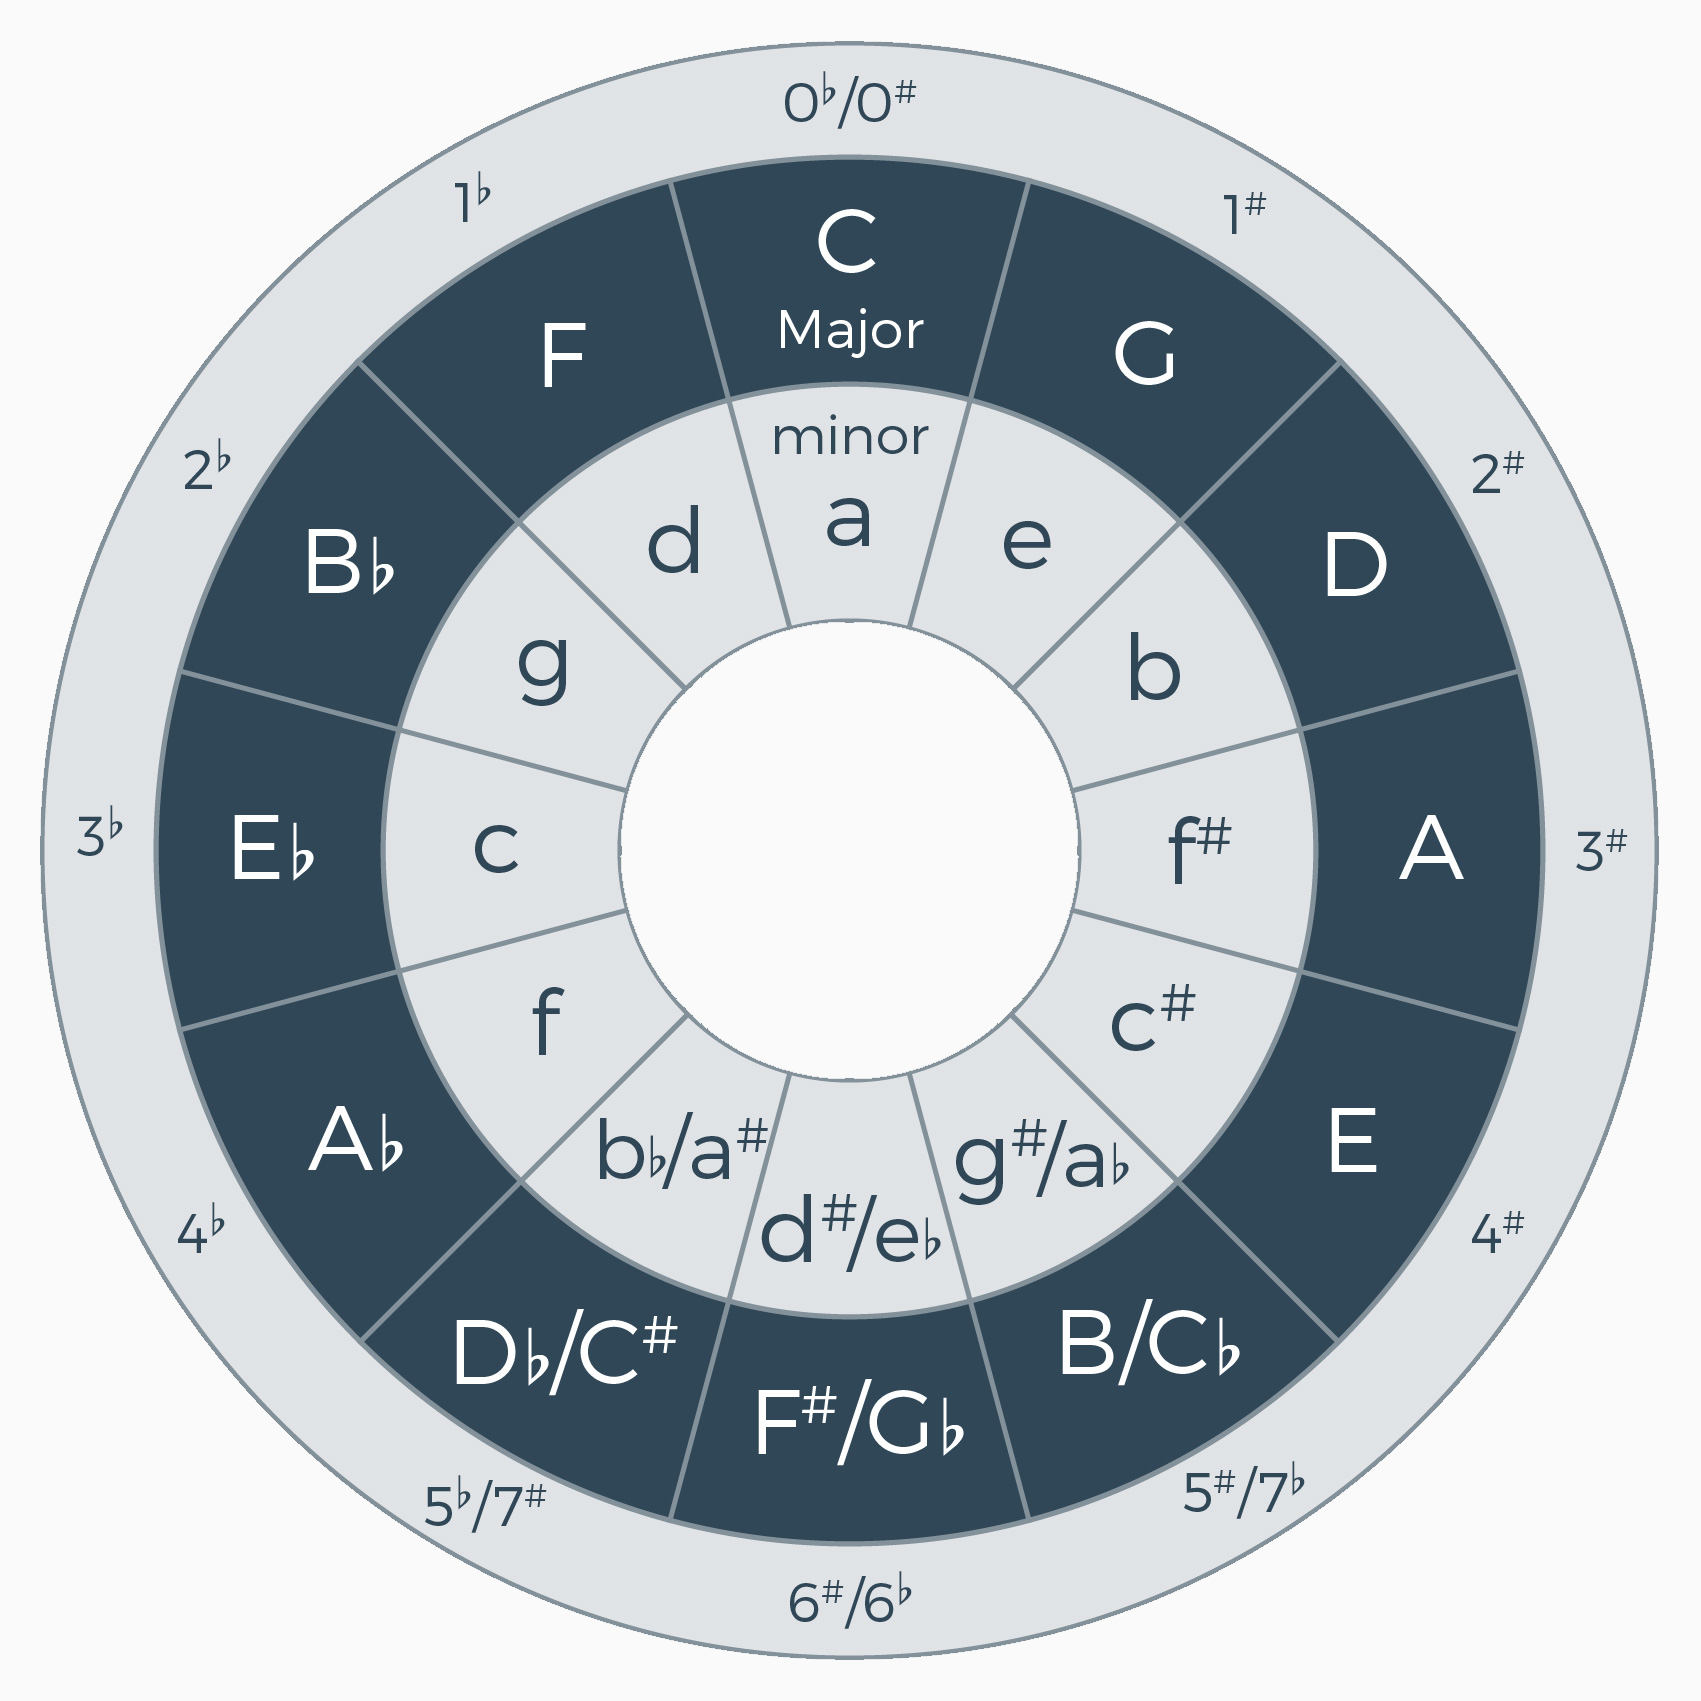
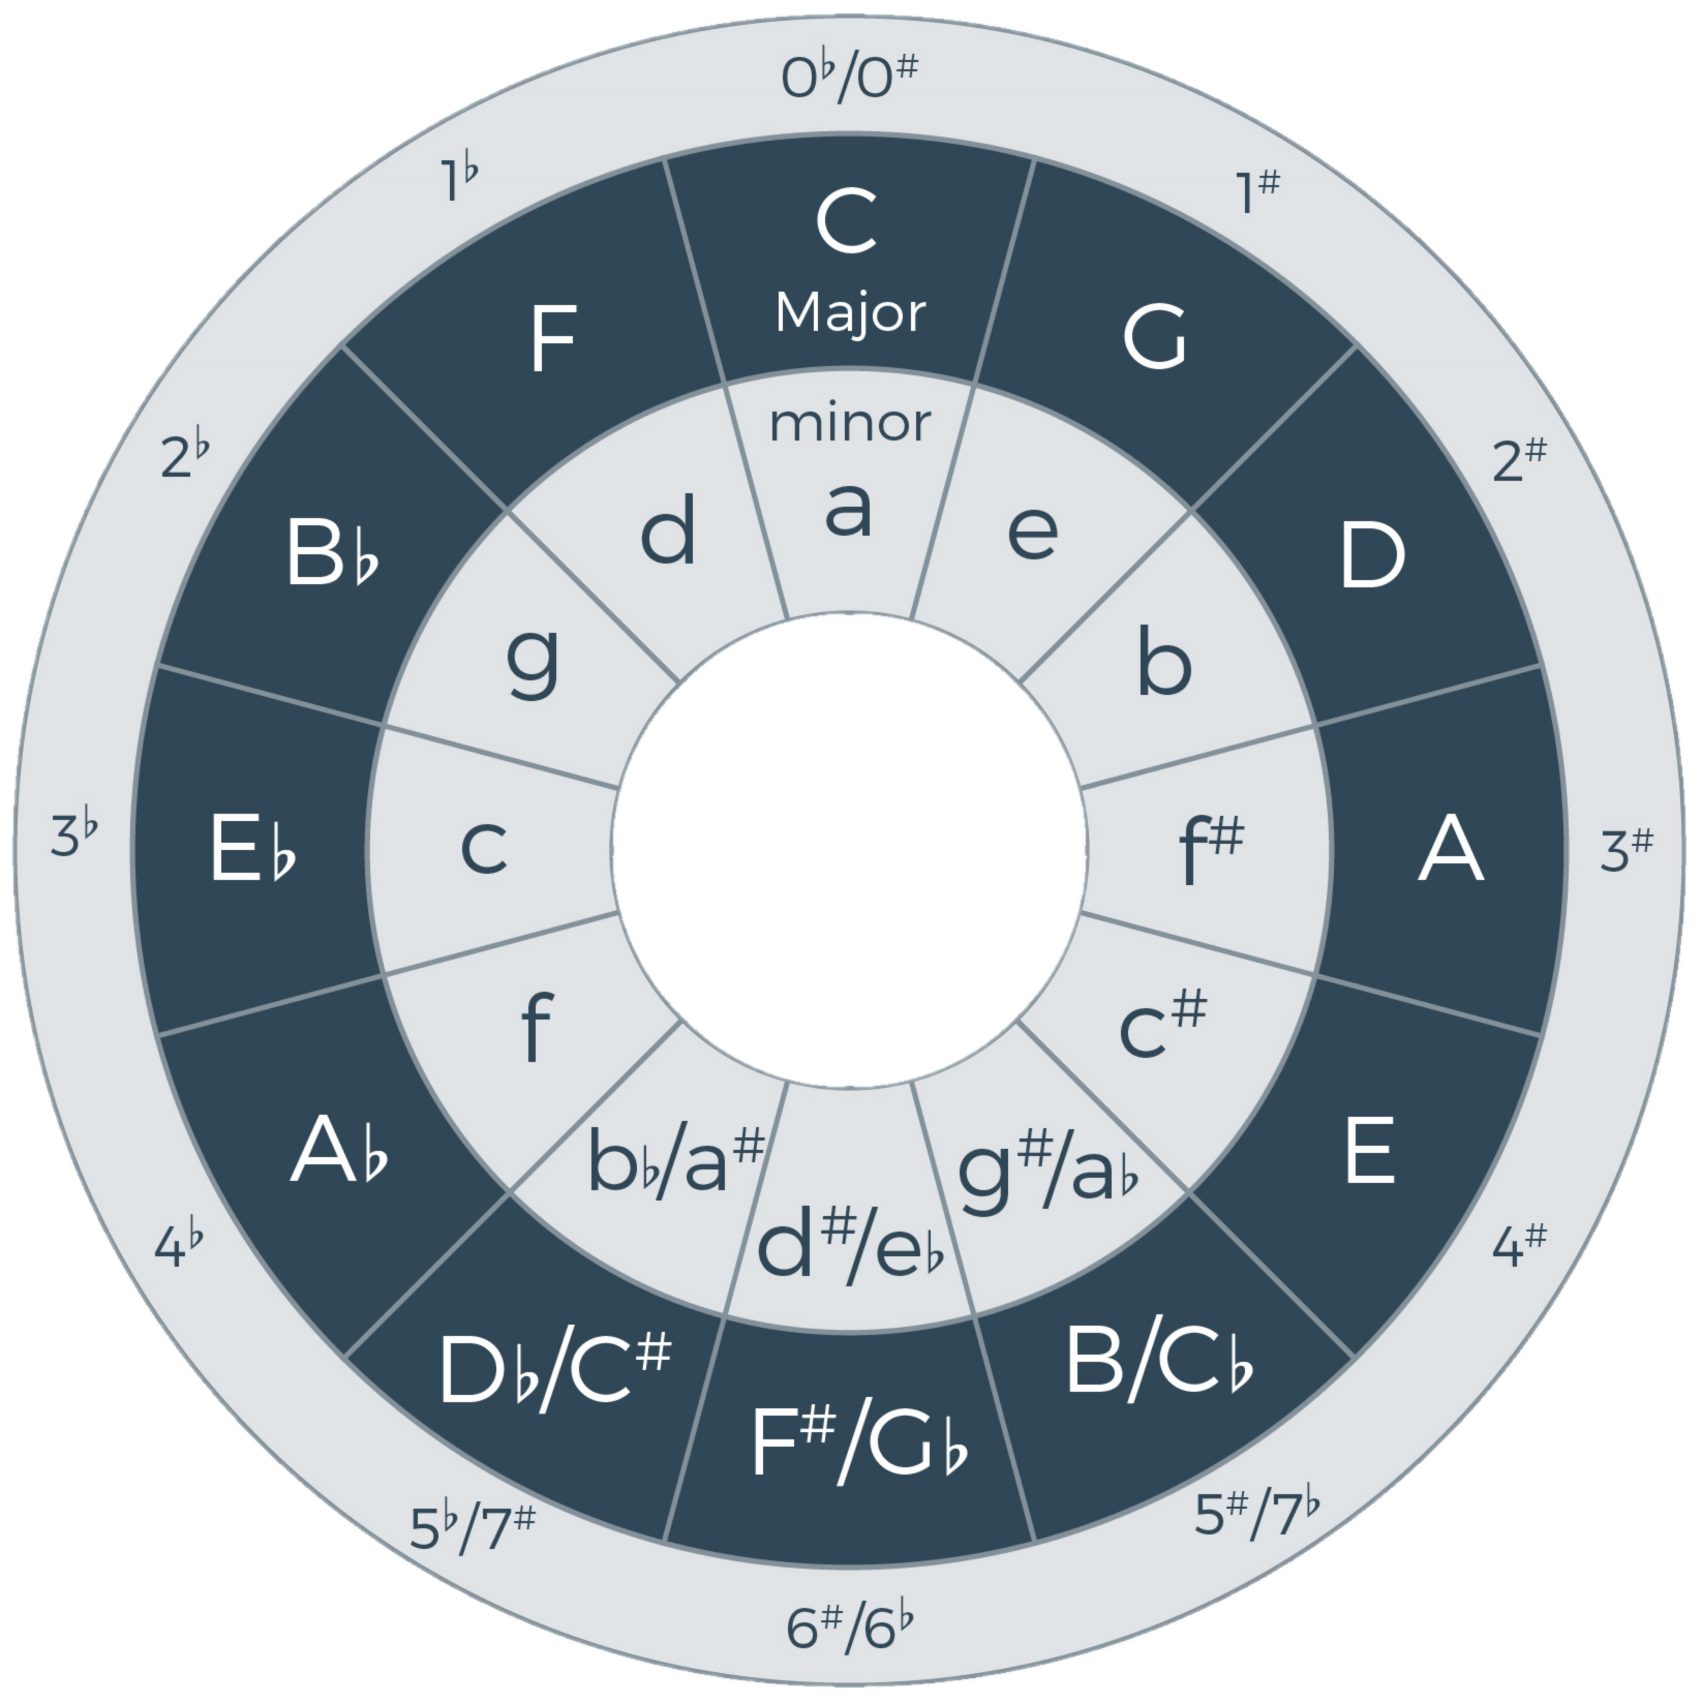
add circle in background on circle page

diff --git a/src/stylesheets/circle_of_fifth.css b/src/stylesheets/circle_of_fifth.css
@@ -1,8 +1,12 @@
 .circle-of-fifth {
   margin-top: 20px;
   width: 100%;
-  max-height: 80vh;
+  height: 80vh;
   text-align: center;
+  background-image: url('../images/The-Circle-of-Fifths.png');
+  background-size: contain;
+  background-repeat: no-repeat;
+  background-position: 50% 50%;
 }
 
 .circle-of-fifth img {

diff --git a/src/CircleOfFifth.jsx b/src/CircleOfFifth.jsx
@@ -3,6 +3,6 @@ import circle from './images/The-Circle-of-Fifths.png';
 export function CircleOfFifth () {
 
   return <div className='container circle-of-fifth'>
-           <img src={circle} alt="circle-of-fifth" />
+           {/* <img src={circle} alt="circle-of-fifth" /> */}
          </div>
 }
